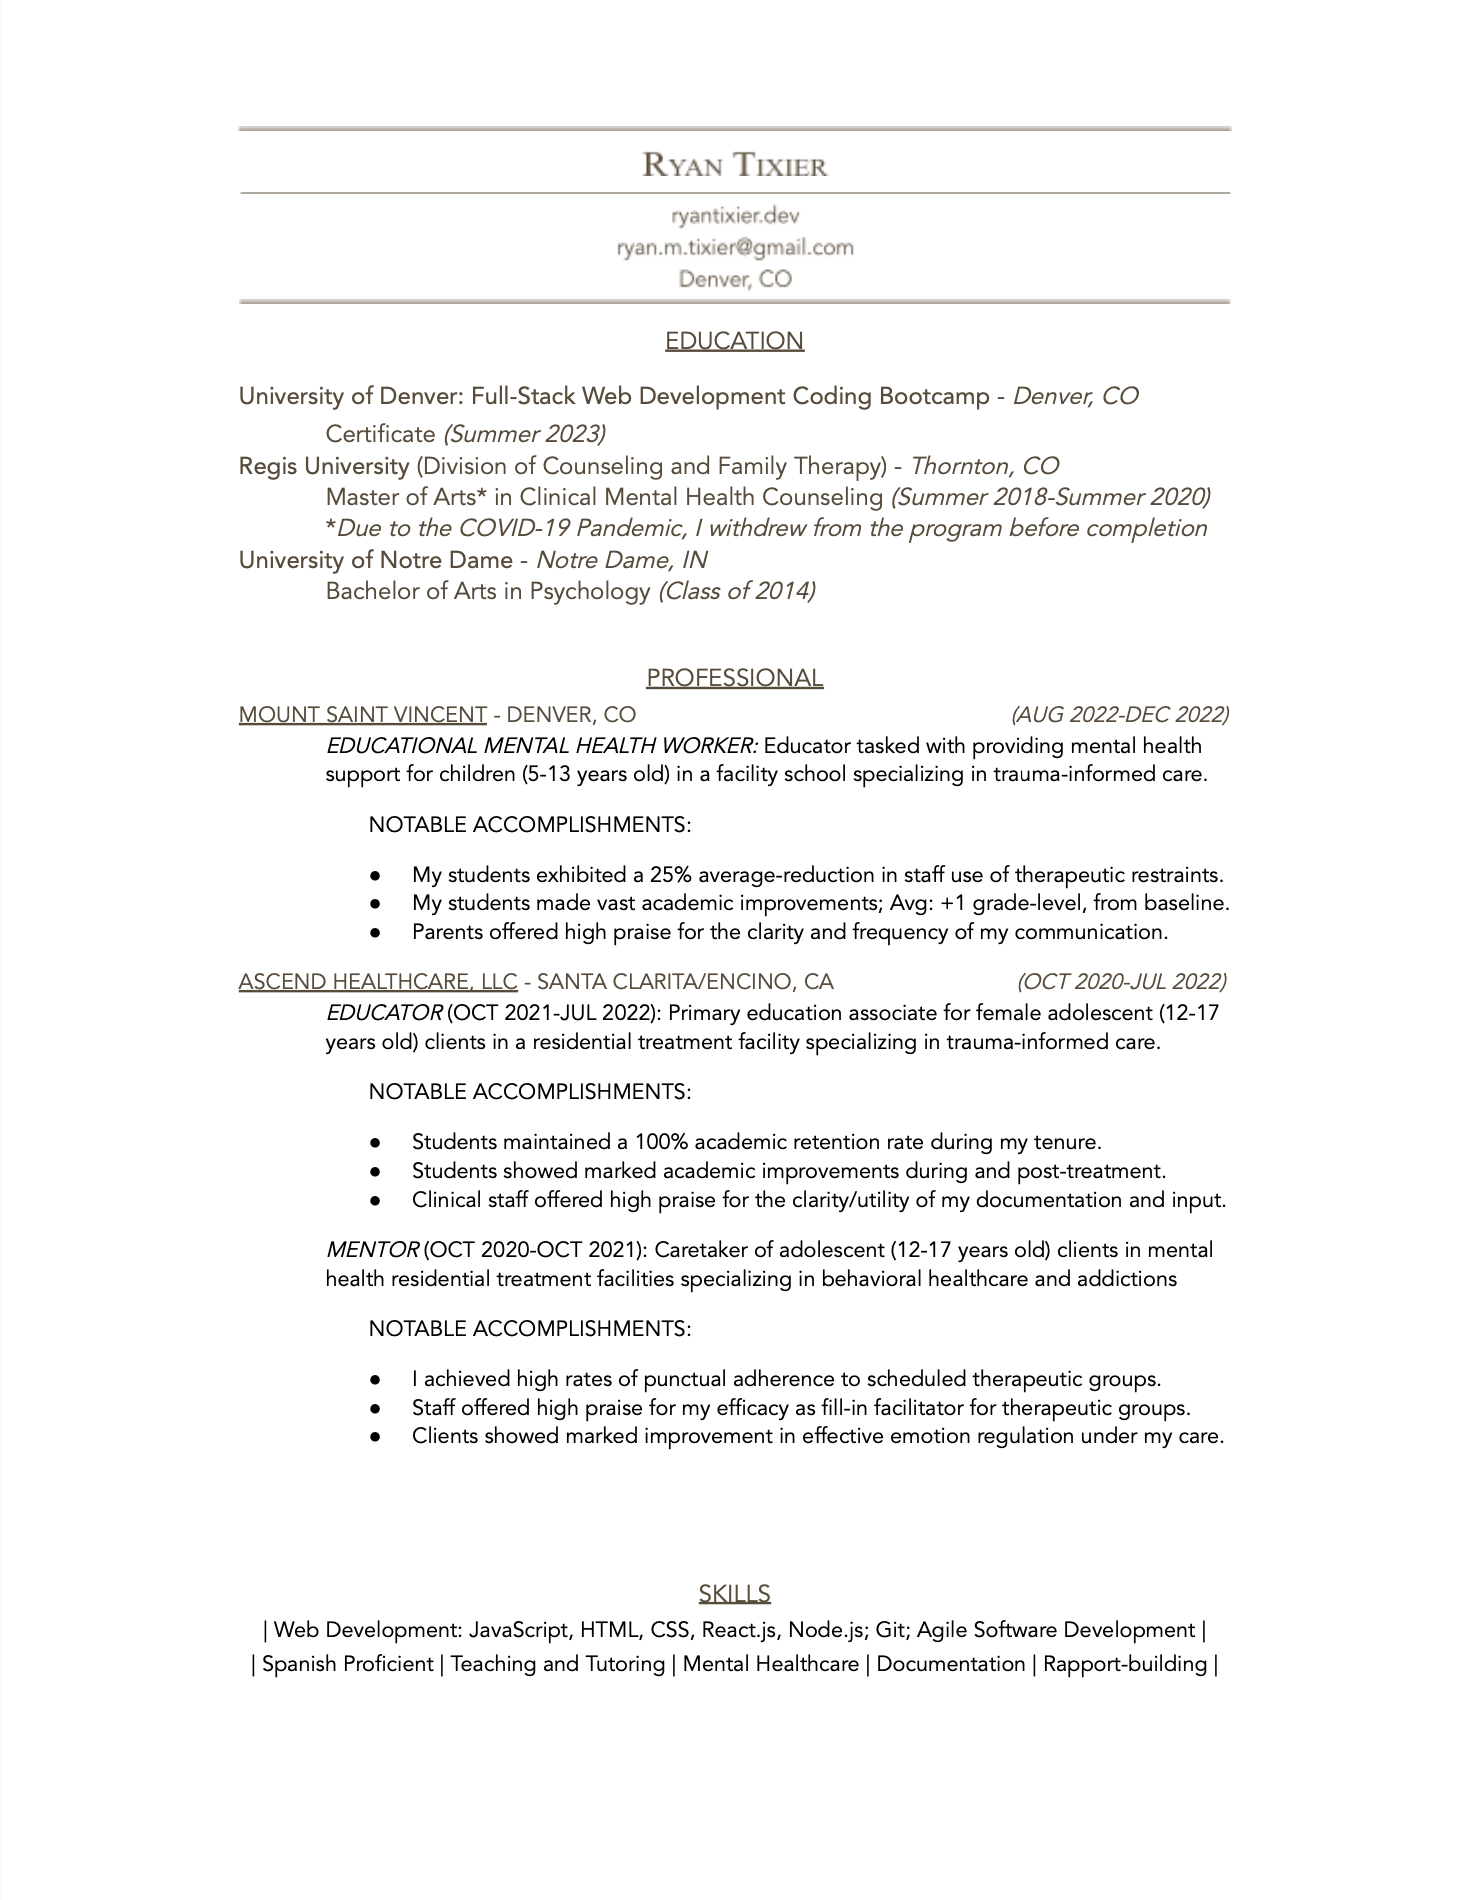
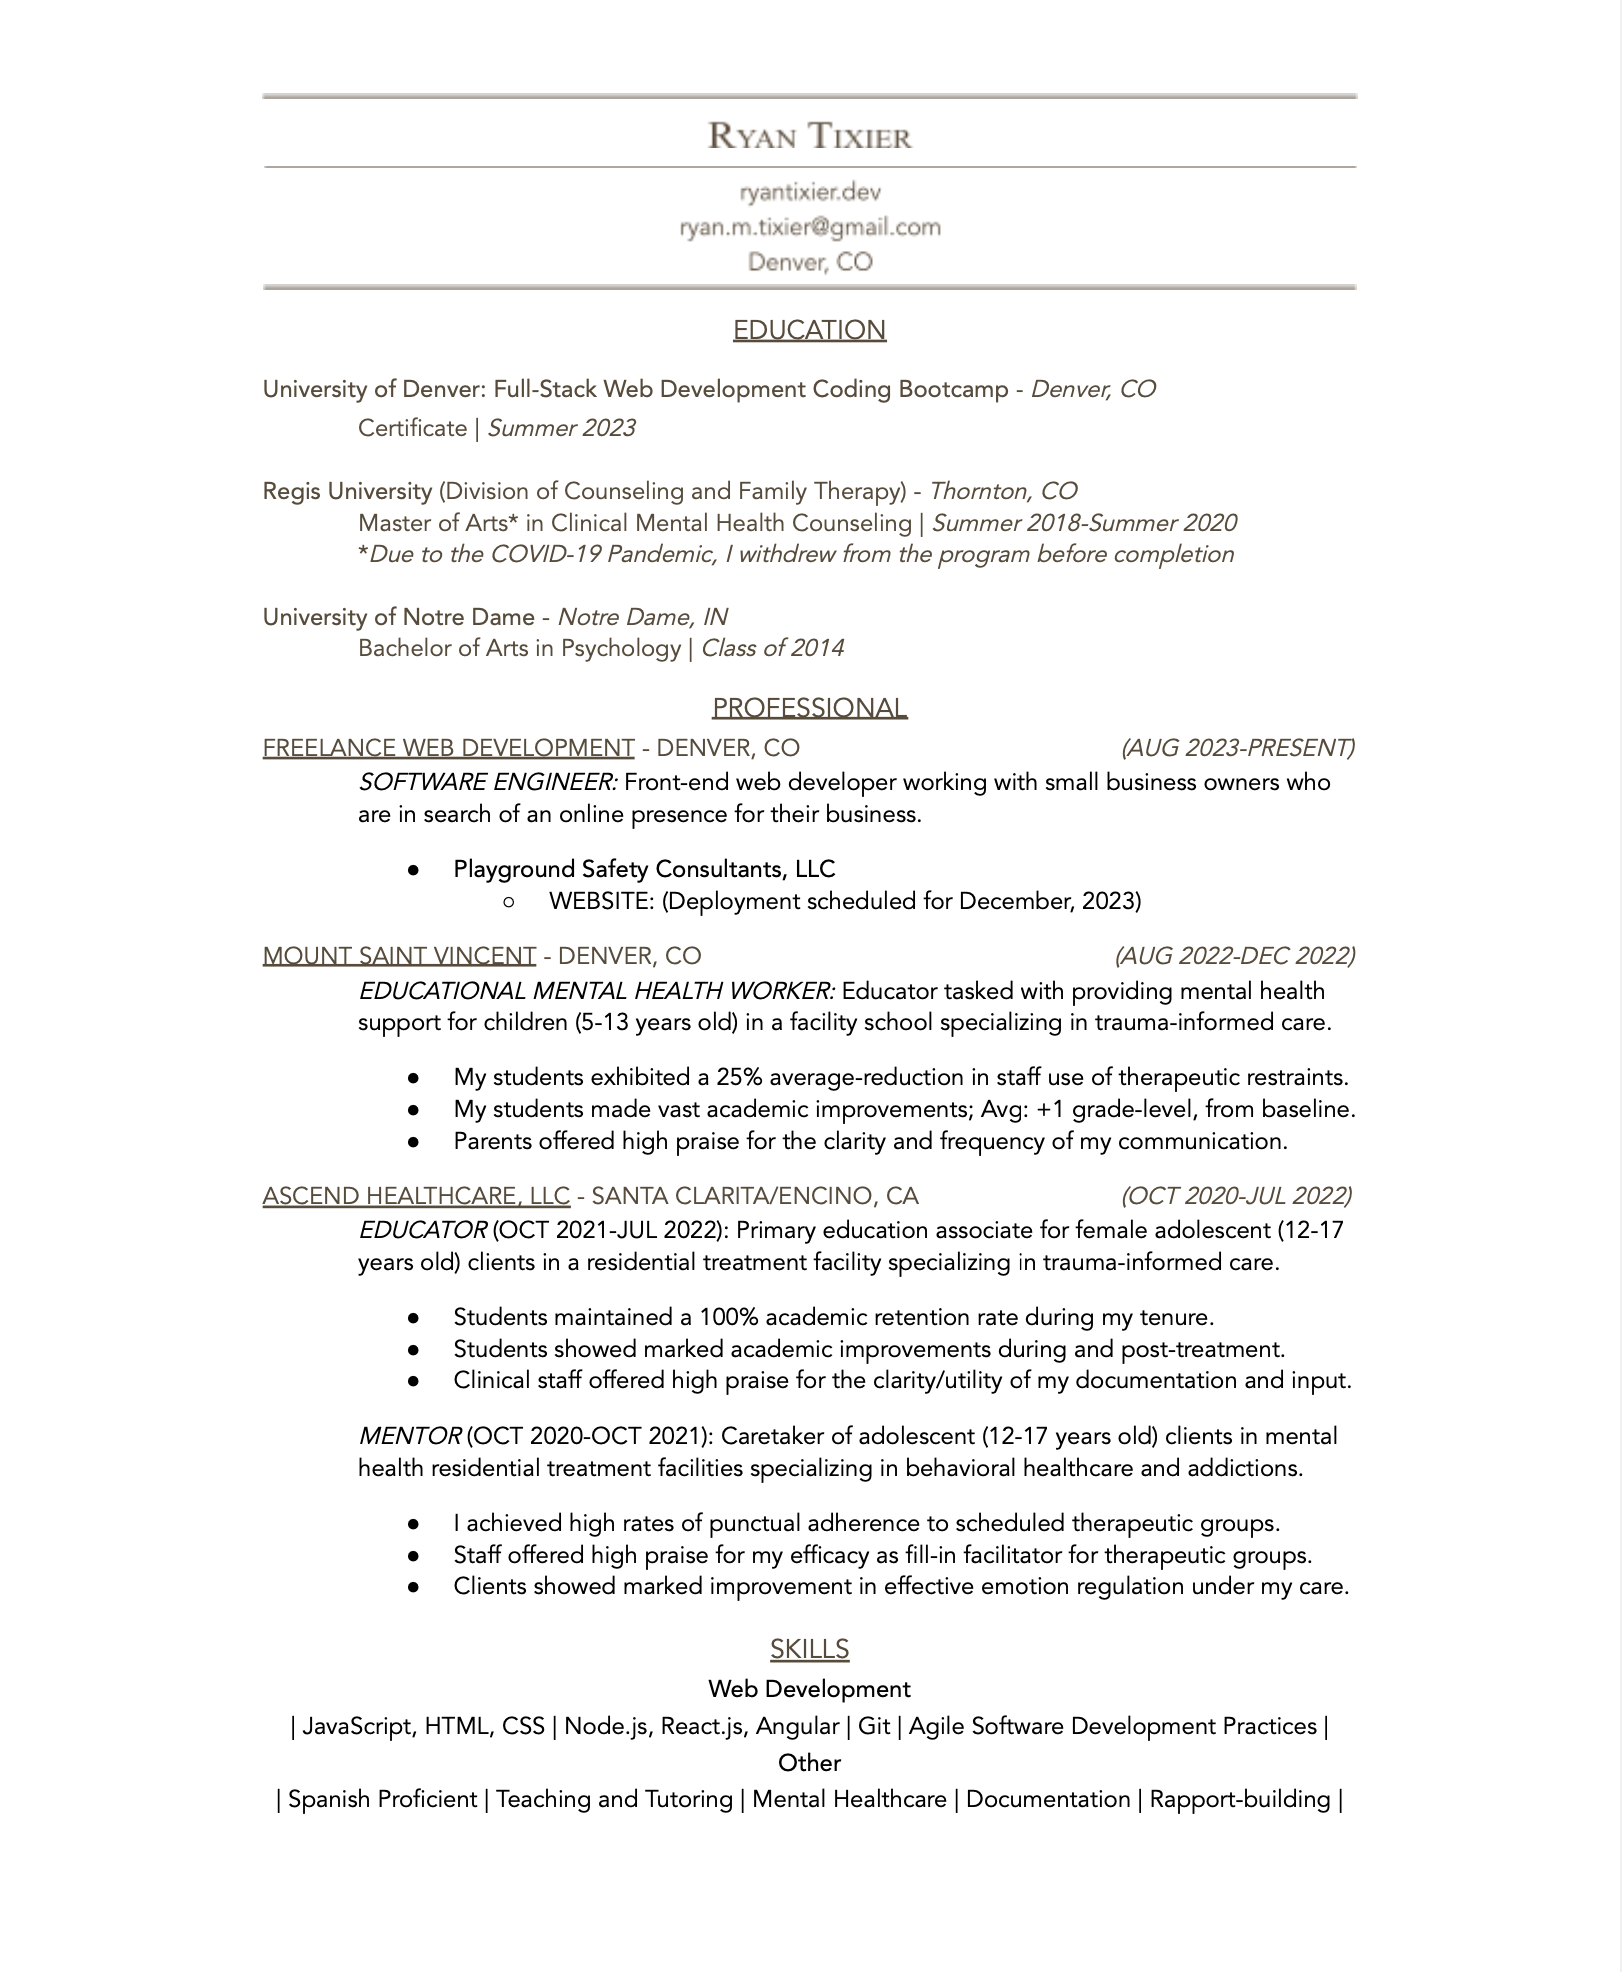
updated resume/screenshot files; (RESUME.JS) added AngularJS to skills section

Changed region(s): [[0.1533, 0.0311, 0.8277, 0.9316]]

diff --git a/src/pages/Resume.js b/src/pages/Resume.js
@@ -95,6 +95,7 @@ export default function Resume() {
             <p>CSS</p>
             <p>JavaScript</p>
             <p>React.js</p>
+            <p>AngularJS</p>
             <p>Node.js</p>
             <p>Git</p>
             <p>Heroku</p>
